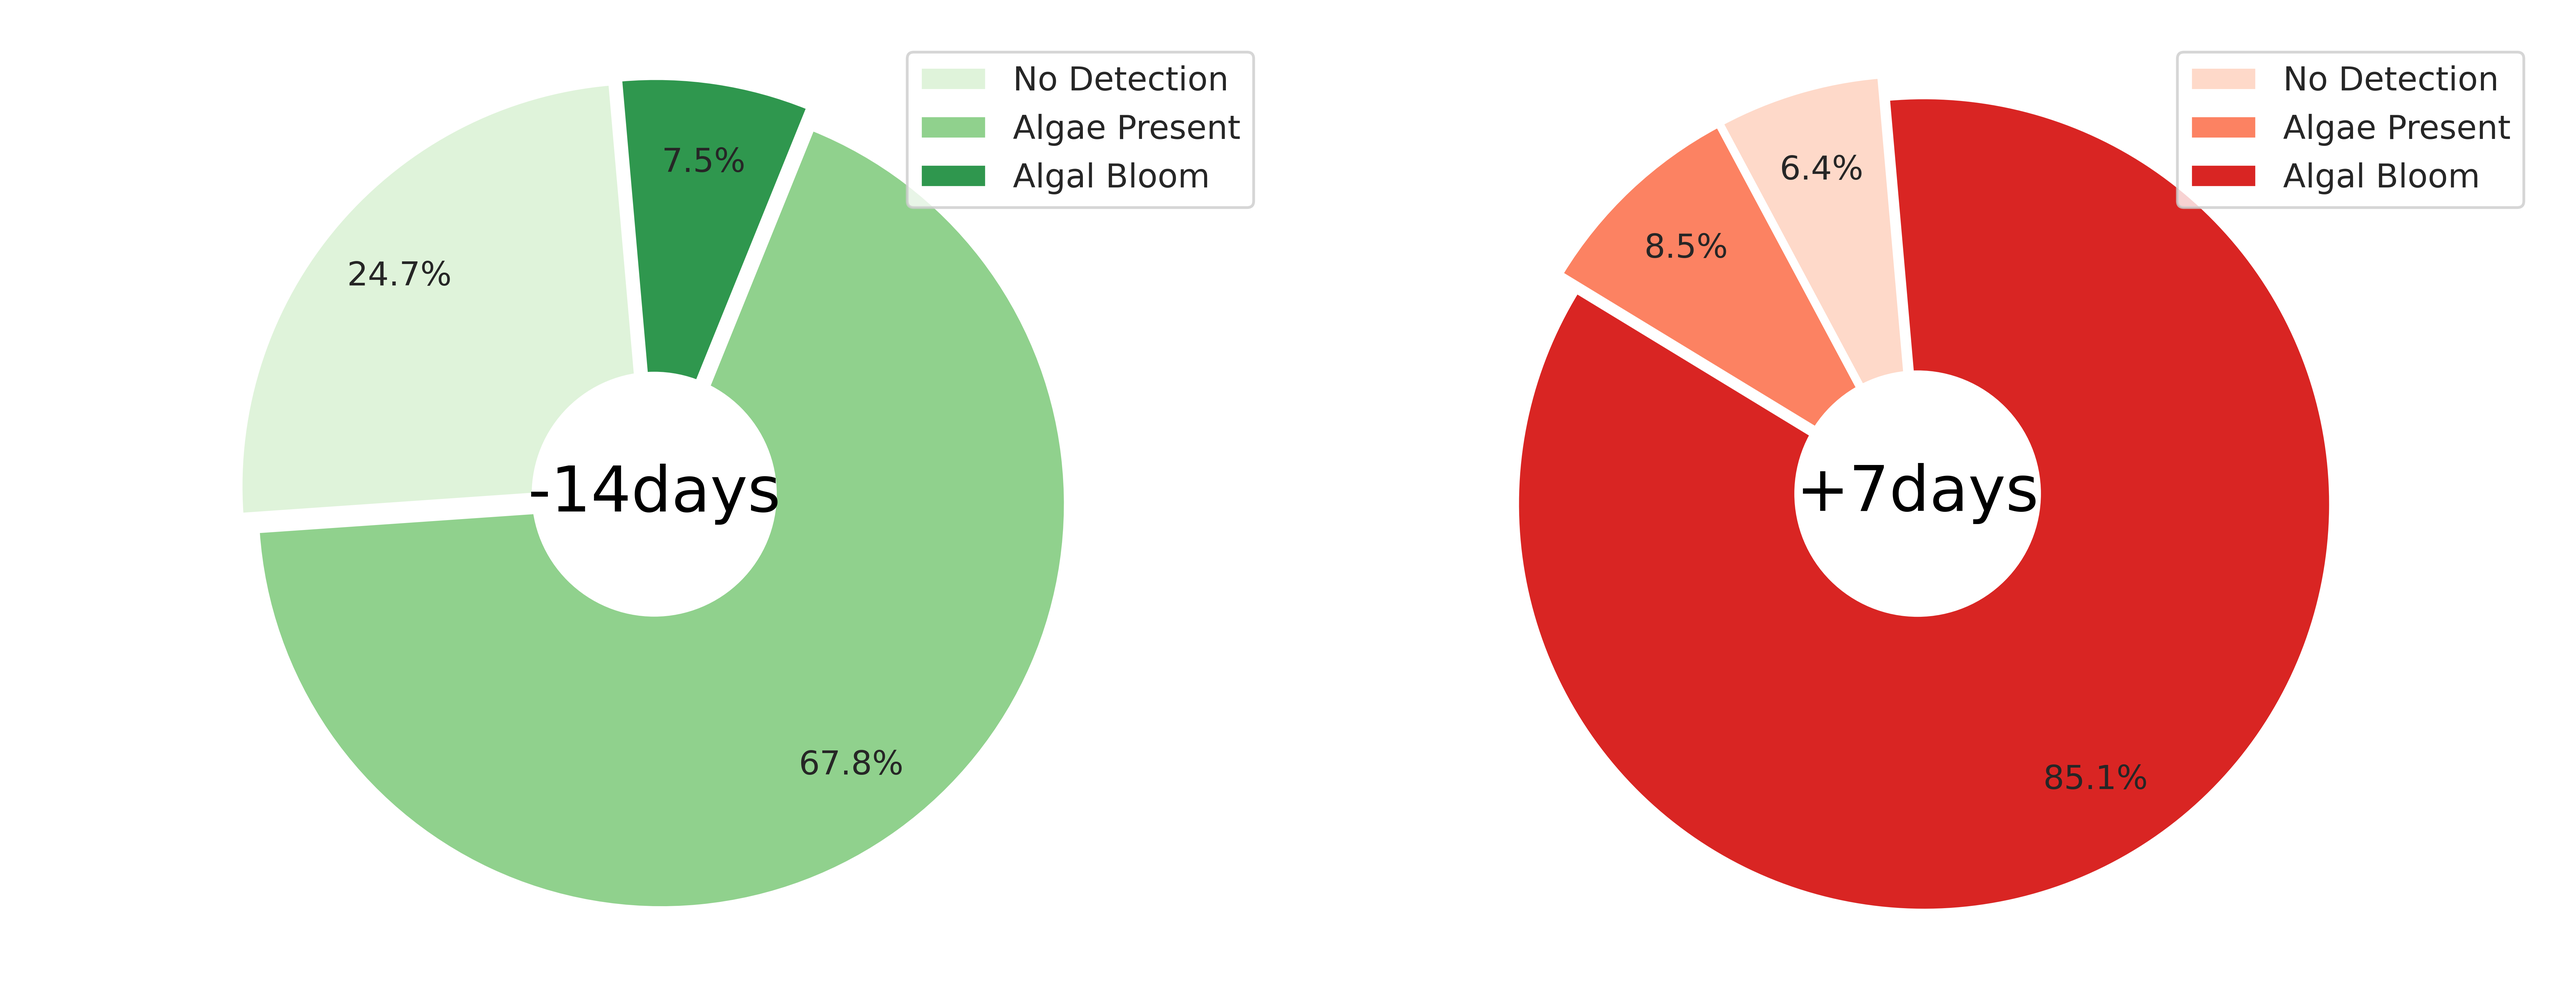
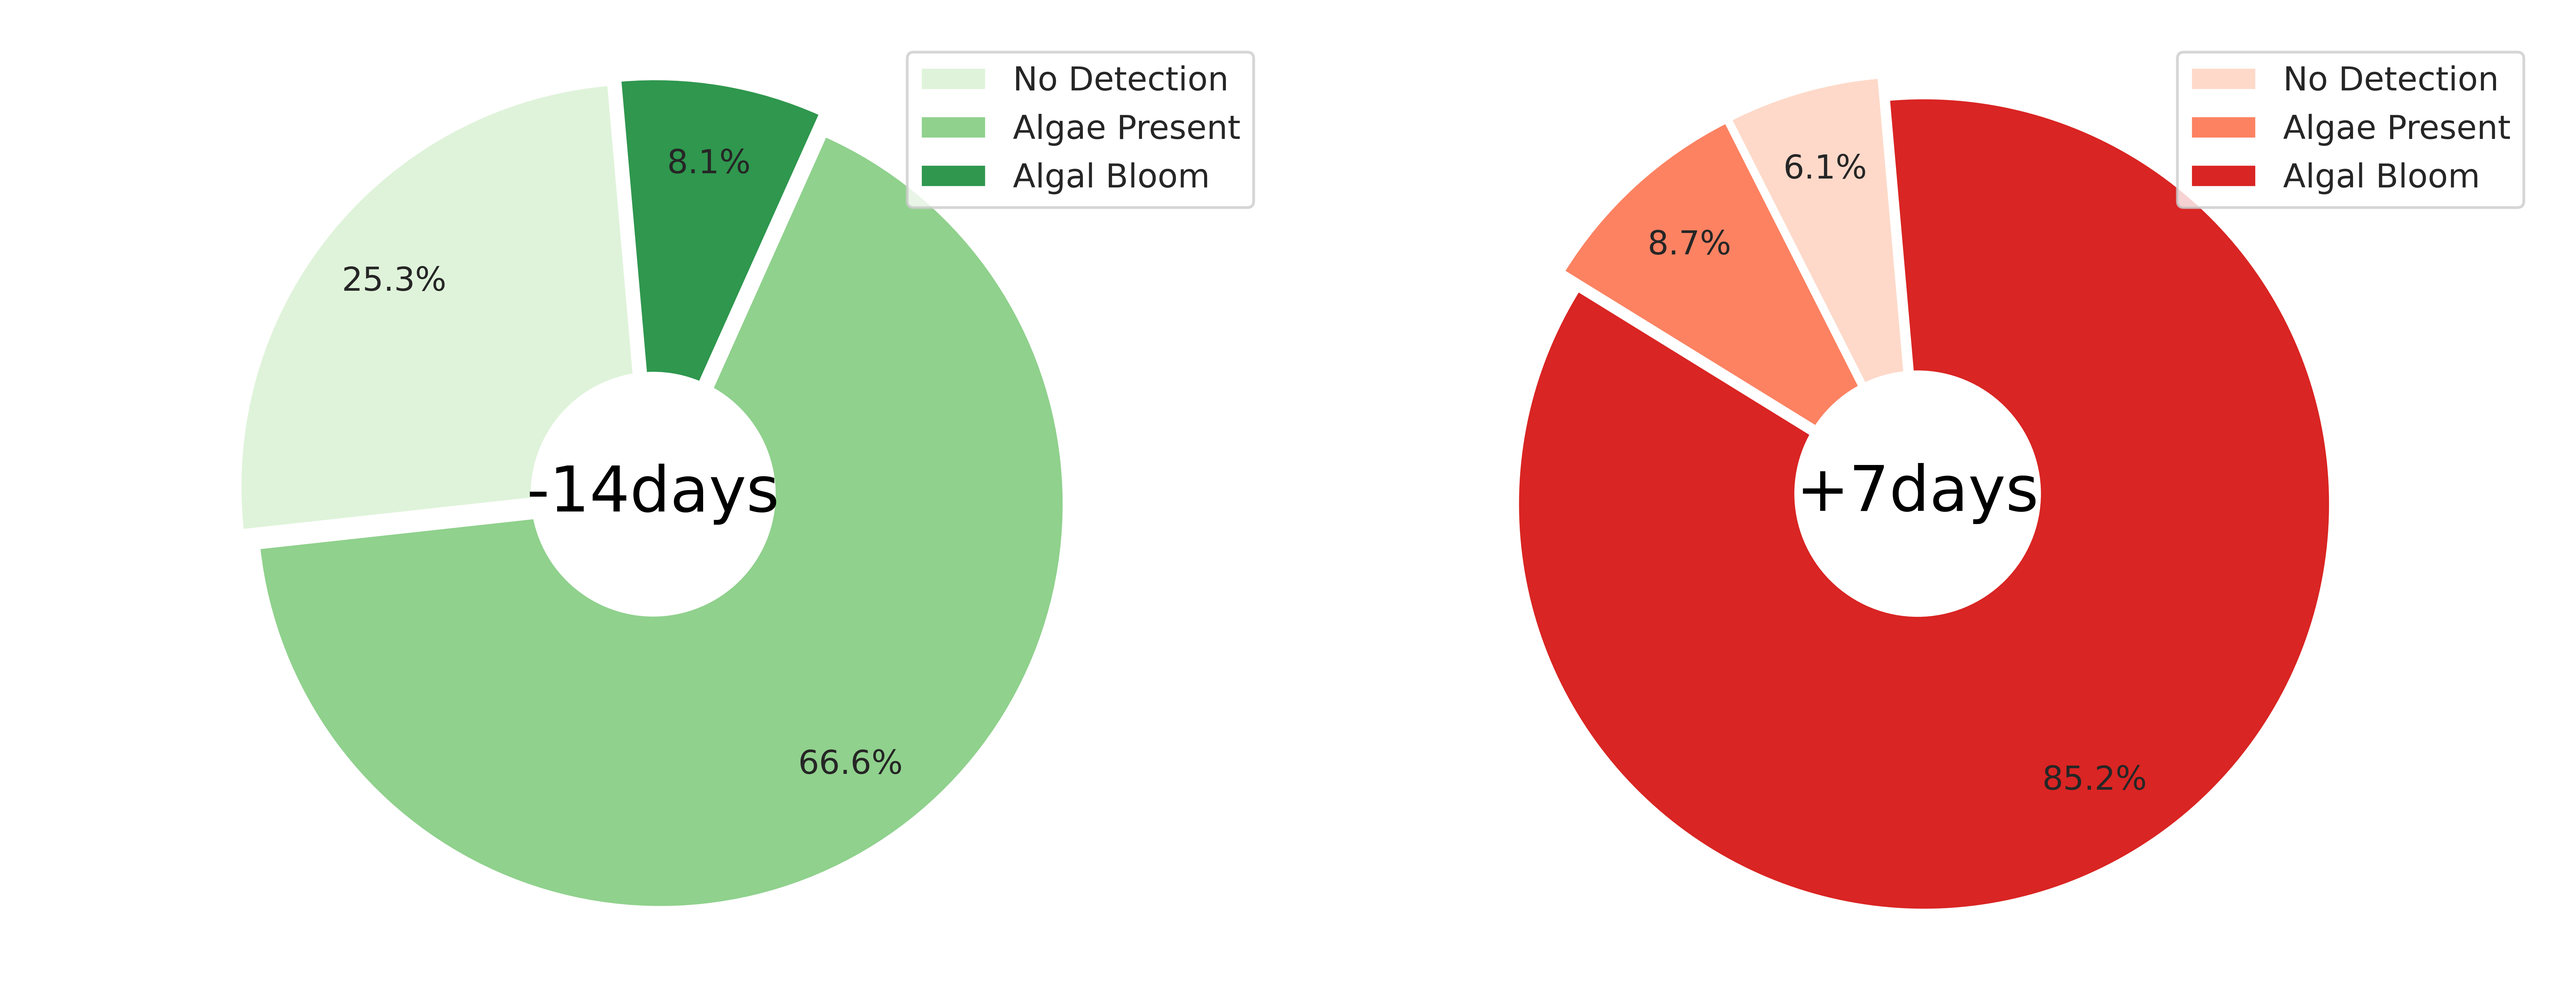
daily blog update

diff --git a/index.md b/index.md
@@ -1,5 +1,5 @@
 ---
-title: "Jun 10, 2024"
+title: "Jun 11, 2024"
 excerpt: "HAB update"
 image: /assets/images/tappan.jpg
 tags: 
@@ -11,34 +11,34 @@ Click here to see the live and interactive [Harmful Algal Bloom dashboard](https
 
 ## 7-day Look Ahead Bloom Forecast
 Below are pie charts describing the __probability of a cyanobacterial bloom__. The chart on the left describes the predictions from two weeks ago, and the one on the right describes the latest prediction, for the coming week. 
-![image-center]({{ site.url }}{{ site.baseurl }}/assets/images/20240610/Fig_prediction.png)
+![image-center]({{ site.url }}{{ site.baseurl }}/assets/images/20240611/Fig_prediction.png)
 __Probabilities of occurrence (%) of an algal bloom from two weeks ago (left) and for the next 7 days (right).__
 
 ## Hotspot Analysis - Chlorophyll-a
 This map shows you the latest estimates of __chlorophyll-a__ from the Sentinel 2a satellite. Note that the color scale is normalized to highlight the hotspots in the image. The colorscale does not provide an indication of the absolute amount of chlorophyll-a in the water and should be interpreted as an "index" of chlorophyll-a.
-![image-center]({{ site.url }}{{ site.baseurl }}/assets/images/20240610/Fig_chla.png){: .align-center}
+![image-center]({{ site.url }}{{ site.baseurl }}/assets/images/20240611/Fig_chla.png){: .align-center}
 <br clear="all" />
 __Latest chlorophyll-a map from the Sentinel 2a satelllite.__
 
 ## Hotspot Analysis - CyAN
 This map shows you the latest estimates of the concentration of cyanobacteria (cells/ml) from the EPA CyAN program.
-![image-center]({{ site.url }}{{ site.baseurl }}/assets/images/20240610/Fig_cyan.png){: .align-center}
+![image-center]({{ site.url }}{{ site.baseurl }}/assets/images/20240611/Fig_cyan.png){: .align-center}
 <br clear="all" />
 __Latest CyAN map from the EPA.__
 
 ## Where we are in the season
 This plot shows the __historical expectation for HAB risk__ over the year. Use this chart to see where we are in the season (identified by the vertical red line). 
-![image-center]({{ site.url }}{{ site.baseurl }}/assets/images/20240610/Fig_climatology.png){: .     align-center}
+![image-center]({{ site.url }}{{ site.baseurl }}/assets/images/20240611/Fig_climatology.png){: .     align-center}
 __Harmful algal bloom risk over the year__.
 
 ## How rainy has it been? 
 We know that in general certain weather conditions promote the likelihood of HABs. Check this chart to see 
 how __wet__ it is, relative to past years. This is simply adding up each day's rainfall, for each year. If the red line is below the orange line, then this year is dryer than average.
-![image-center]({{ site.url }}{{ site.baseurl }}/assets/images/20240610/Fig_precip_cumsum.png){: .     align-center}
+![image-center]({{ site.url }}{{ site.baseurl }}/assets/images/20240611/Fig_precip_cumsum.png){: .     align-center}
 __Precipitation at the lake compared to previous years__.
 
 ## How hot has it been? 
 We know that in general certain weather conditions promote the likelihood of HABs. Check this chart to see 
 how __hot__ it is, relative to past years. This is simply adding up each day's temperature, for each year. If the red line is above the orange line, this year is hotter than average.
-![image-center]({{ site.url }}{{ site.baseurl }}/assets/images/20240610/Fig_temp_cumsum.png){: .     align-center}
+![image-center]({{ site.url }}{{ site.baseurl }}/assets/images/20240611/Fig_temp_cumsum.png){: .     align-center}
 __Air temperature at the lake compared to previous years__.

diff --git a/_posts/2024-06-11-blog023.md b/_posts/2024-06-11-blog023.md
@@ -1,0 +1,44 @@
+---
+title: "Jun 11, 2024"
+excerpt: "HAB update"
+image: /assets/images/tappan.jpg
+tags: 
+  - hab
+  - prediction
+---
+
+Click here to see the live and interactive [Harmful Algal Bloom dashboard](https://tappan.clrwater.io/).
+
+## 7-day Look Ahead Bloom Forecast
+Below are pie charts describing the __probability of a cyanobacterial bloom__. The chart on the left describes the predictions from two weeks ago, and the one on the right describes the latest prediction, for the coming week. 
+![image-center]({{ site.url }}{{ site.baseurl }}/assets/images/20240611/Fig_prediction.png)
+__Probabilities of occurrence (%) of an algal bloom from two weeks ago (left) and for the next 7 days (right).__
+
+## Hotspot Analysis - Chlorophyll-a
+This map shows you the latest estimates of __chlorophyll-a__ from the Sentinel 2a satellite. Note that the color scale is normalized to highlight the hotspots in the image. The colorscale does not provide an indication of the absolute amount of chlorophyll-a in the water and should be interpreted as an "index" of chlorophyll-a.
+![image-center]({{ site.url }}{{ site.baseurl }}/assets/images/20240611/Fig_chla.png){: .align-center}
+<br clear="all" />
+__Latest chlorophyll-a map from the Sentinel 2a satelllite.__
+
+## Hotspot Analysis - CyAN
+This map shows you the latest estimates of the concentration of cyanobacteria (cells/ml) from the EPA CyAN program.
+![image-center]({{ site.url }}{{ site.baseurl }}/assets/images/20240611/Fig_cyan.png){: .align-center}
+<br clear="all" />
+__Latest CyAN map from the EPA.__
+
+## Where we are in the season
+This plot shows the __historical expectation for HAB risk__ over the year. Use this chart to see where we are in the season (identified by the vertical red line). 
+![image-center]({{ site.url }}{{ site.baseurl }}/assets/images/20240611/Fig_climatology.png){: .     align-center}
+__Harmful algal bloom risk over the year__.
+
+## How rainy has it been? 
+We know that in general certain weather conditions promote the likelihood of HABs. Check this chart to see 
+how __wet__ it is, relative to past years. This is simply adding up each day's rainfall, for each year. If the red line is below the orange line, then this year is dryer than average.
+![image-center]({{ site.url }}{{ site.baseurl }}/assets/images/20240611/Fig_precip_cumsum.png){: .     align-center}
+__Precipitation at the lake compared to previous years__.
+
+## How hot has it been? 
+We know that in general certain weather conditions promote the likelihood of HABs. Check this chart to see 
+how __hot__ it is, relative to past years. This is simply adding up each day's temperature, for each year. If the red line is above the orange line, this year is hotter than average.
+![image-center]({{ site.url }}{{ site.baseurl }}/assets/images/20240611/Fig_temp_cumsum.png){: .     align-center}
+__Air temperature at the lake compared to previous years__.
